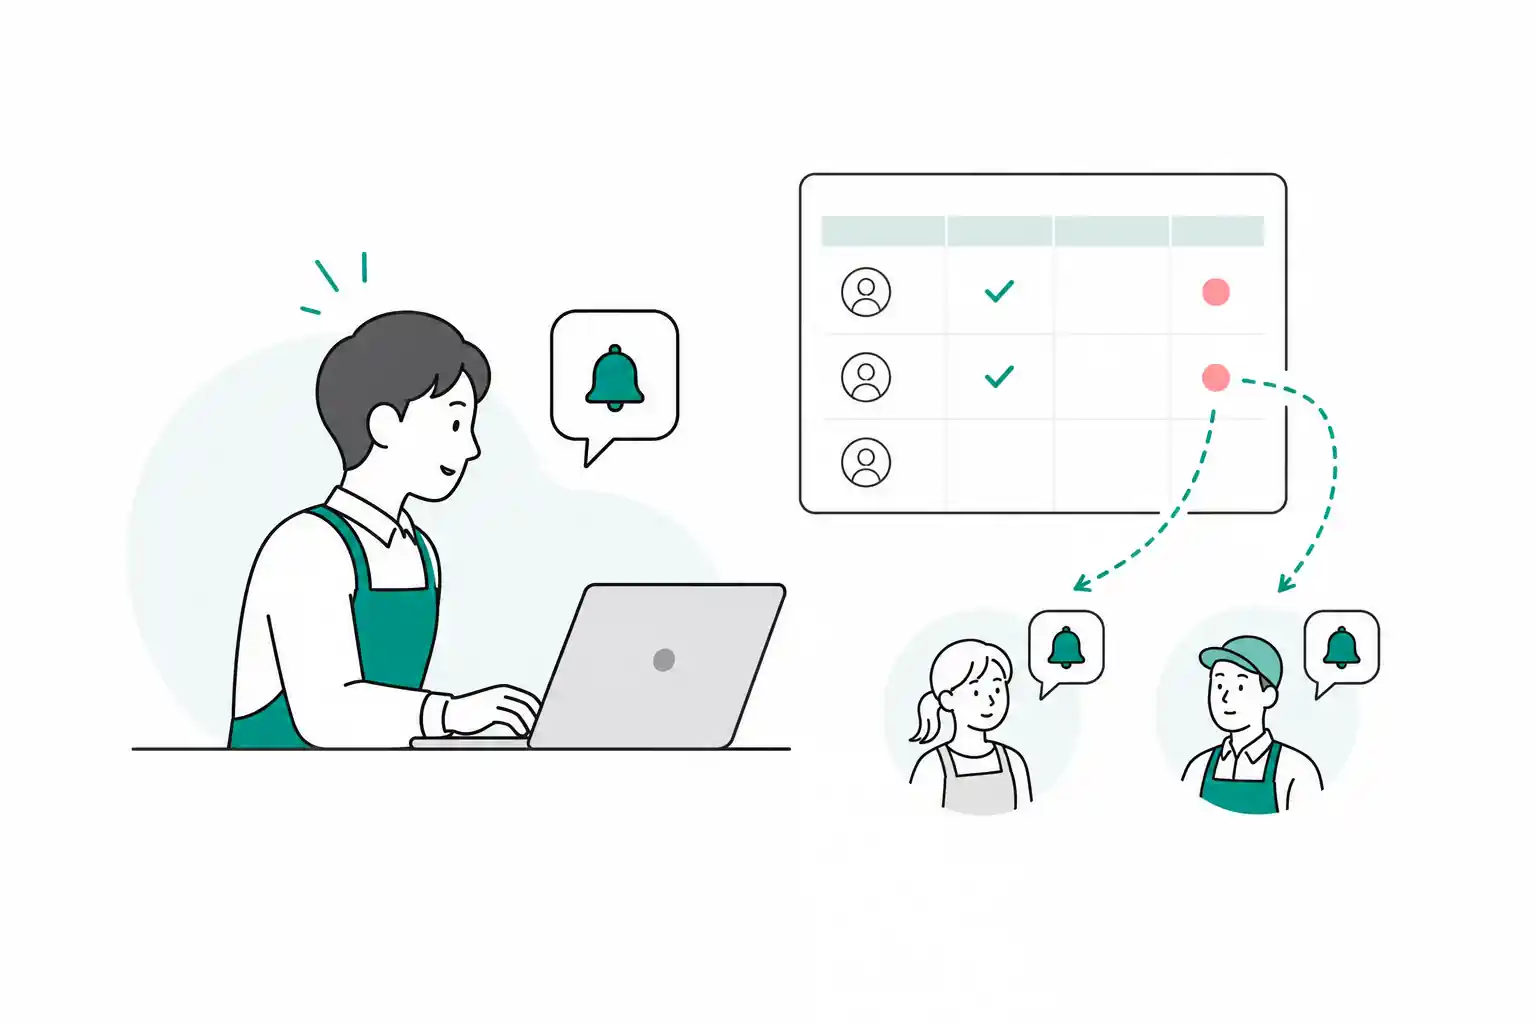
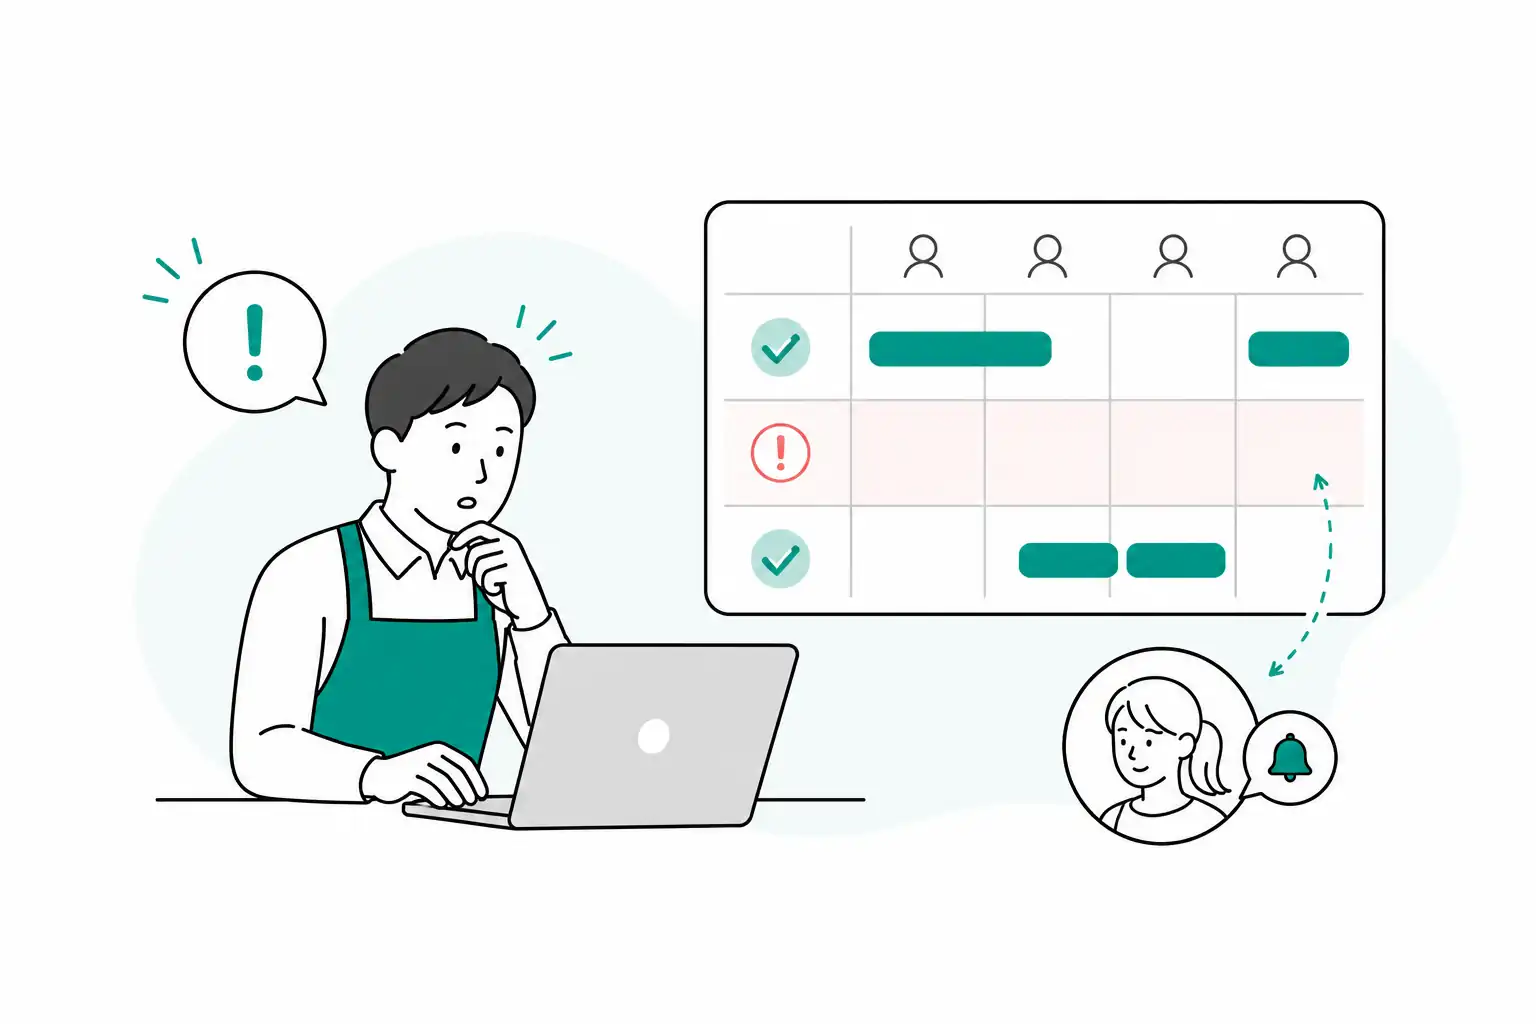
improve: lp

Changed region(s): [[0.0938, 0.1562, 0.9062, 0.8438], [0.375, 0.2812, 0.4375, 0.3125], [0.7188, 0.375, 0.75, 0.4062]]

diff --git a/src/components/features/LandingPage/FeatureSection.tsx b/src/components/features/LandingPage/FeatureSection.tsx
@@ -4,9 +4,10 @@ import { Button } from "@/src/components/ui/Button";
 import featureCollectImage from "./feature-collect.webp";
 import featureSendImage from "./feature-send.webp";
 import shiftFormImage from "./hero-pc.webp";
+import howtoEasyStartImage from "./howto-easy-start.webp";
 import howtoNoticeImage from "./howto-notice.webp";
 
-type FeatureVisualType = "collect" | "notice" | "shift" | "notify";
+type FeatureVisualType = "start" | "collect" | "notice" | "shift" | "notify";
 
 const featureCards: {
   number: string;
@@ -17,25 +18,31 @@ const featureCards: {
 }[] = [
   {
     number: "1",
+    title: "かんたんにはじめる",
+    body: "店舗名と営業時間など基本情報だけではじめられます。",
+    visual: "start",
+  },
+  {
+    number: "2",
     title: "希望を集める",
     body: "スタッフはいつものLINEから提出。専用アプリなしで始められます。",
     visual: "collect",
   },
   {
-    number: "2",
+    number: "3",
     title: "未提出に気づく",
     body: "作成中に未提出者を確認。必要な人だけに声をかけられます。",
     visual: "notice",
   },
   {
-    number: "3",
+    number: "4",
     title: "シフト表を作る",
     body: "希望を見ながら日別に作成。転記せず、そのまま調整できます。",
     visual: "shift",
     featured: true,
   },
   {
-    number: "4",
+    number: "5",
     title: "確定シフトを届ける",
     body: "完成したシフトをLINE・メールで通知。送り直しの手間を減らします。",
     visual: "notify",
@@ -77,7 +84,7 @@ export const FeatureSection = ({ headingAs = "h2" }: FeatureSectionProps) => (
             で 希望回収から確定までひとつに
           </Heading>
           <Text color="gray.700" textStyle={{ base: "bodySm", md: "body" }} lineHeight="1.8" maxW="720px">
-            未提出確認、シフト表の作成、スタッフへの通知まで、シフトリ1つで進められます。
+            基本情報の設定から未提出確認、シフト表の作成、スタッフへの通知まで、シフトリ1つで進められます。
           </Text>
         </VStack>
 
@@ -150,8 +157,8 @@ const CapabilityCard = ({
       px={{ base: 5, md: 9 }}
       py={{ base: 6, md: featured ? 8 : 6, lg: 5, xl: 0 }}
       h={{
-        lg: "280px",
-        xl: "300px",
+        lg: hasVisual ? "280px" : "auto",
+        xl: hasVisual ? "300px" : "auto",
       }}
       boxShadow="0 18px 42px rgba(15, 23, 42, 0.06)"
       overflow="hidden"
@@ -189,6 +196,7 @@ const CapabilityCard = ({
 };
 
 const featureImageVisuals: Partial<Record<FeatureVisualType, string>> = {
+  start: howtoEasyStartImage,
   collect: featureCollectImage,
   notice: howtoNoticeImage,
   notify: featureSendImage,

diff --git a/src/components/features/LandingPage/HeroSection.tsx b/src/components/features/LandingPage/HeroSection.tsx
@@ -74,9 +74,9 @@ export const HeroSection = () => (
               </Heading>
 
               <Text maxW="560px" color="gray.800" textStyle={{ base: "bodySm", md: "body" }} lineHeight="1.8">
-                希望回収からシフト作成・通知まで、LINEでひとつに。
+                紙やLINEで集めて、Excelに転記。そんなシフト作成をもっとラクに。
                 <Box as="span" display="block">
-                  小さなお店向けのシフト管理ツールです。
+                  シフトリは、店舗名と営業時間などの基本情報だけではじめられる、かんたんなシフト作成ツールです。
                 </Box>
               </Text>
             </VStack>

diff --git a/src/components/features/LandingPage/ProblemSection.tsx b/src/components/features/LandingPage/ProblemSection.tsx
@@ -3,8 +3,8 @@ import type { IconType } from "react-icons";
 import { LuArrowRight, LuBell, LuCalendarCheck, LuMessageCircle } from "react-icons/lu";
 import issueCheckSubmissionImage from "./issue-check-submission.webp";
 import issueCollectImage from "./issue-collect.webp";
-import issueNotifyChangeImage from "./issue-notify-change.webp";
 import issueRewriteExcelImage from "./issue-rewrite-excel.webp";
+import issueToolsImage from "./issue-tools.webp";
 
 const problemCards = [
   { number: "01", title: "希望を集める", image: issueCollectImage, alt: "LINEやメモで集まった希望を見返すイメージ" },
@@ -15,7 +15,7 @@ const problemCards = [
     alt: "提出状況を確認して未提出者を把握するイメージ",
   },
   { number: "03", title: "表に転記する", image: issueRewriteExcelImage, alt: "集めた希望を表に転記するイメージ" },
-  { number: "04", title: "変更を伝える", image: issueNotifyChangeImage, alt: "完成後の変更を共有するイメージ" },
+  { number: "04", title: "ツールの設定が多い", image: issueToolsImage, alt: "ツールの設定が多いイメージ" },
 ];
 
 const solutionSteps = [